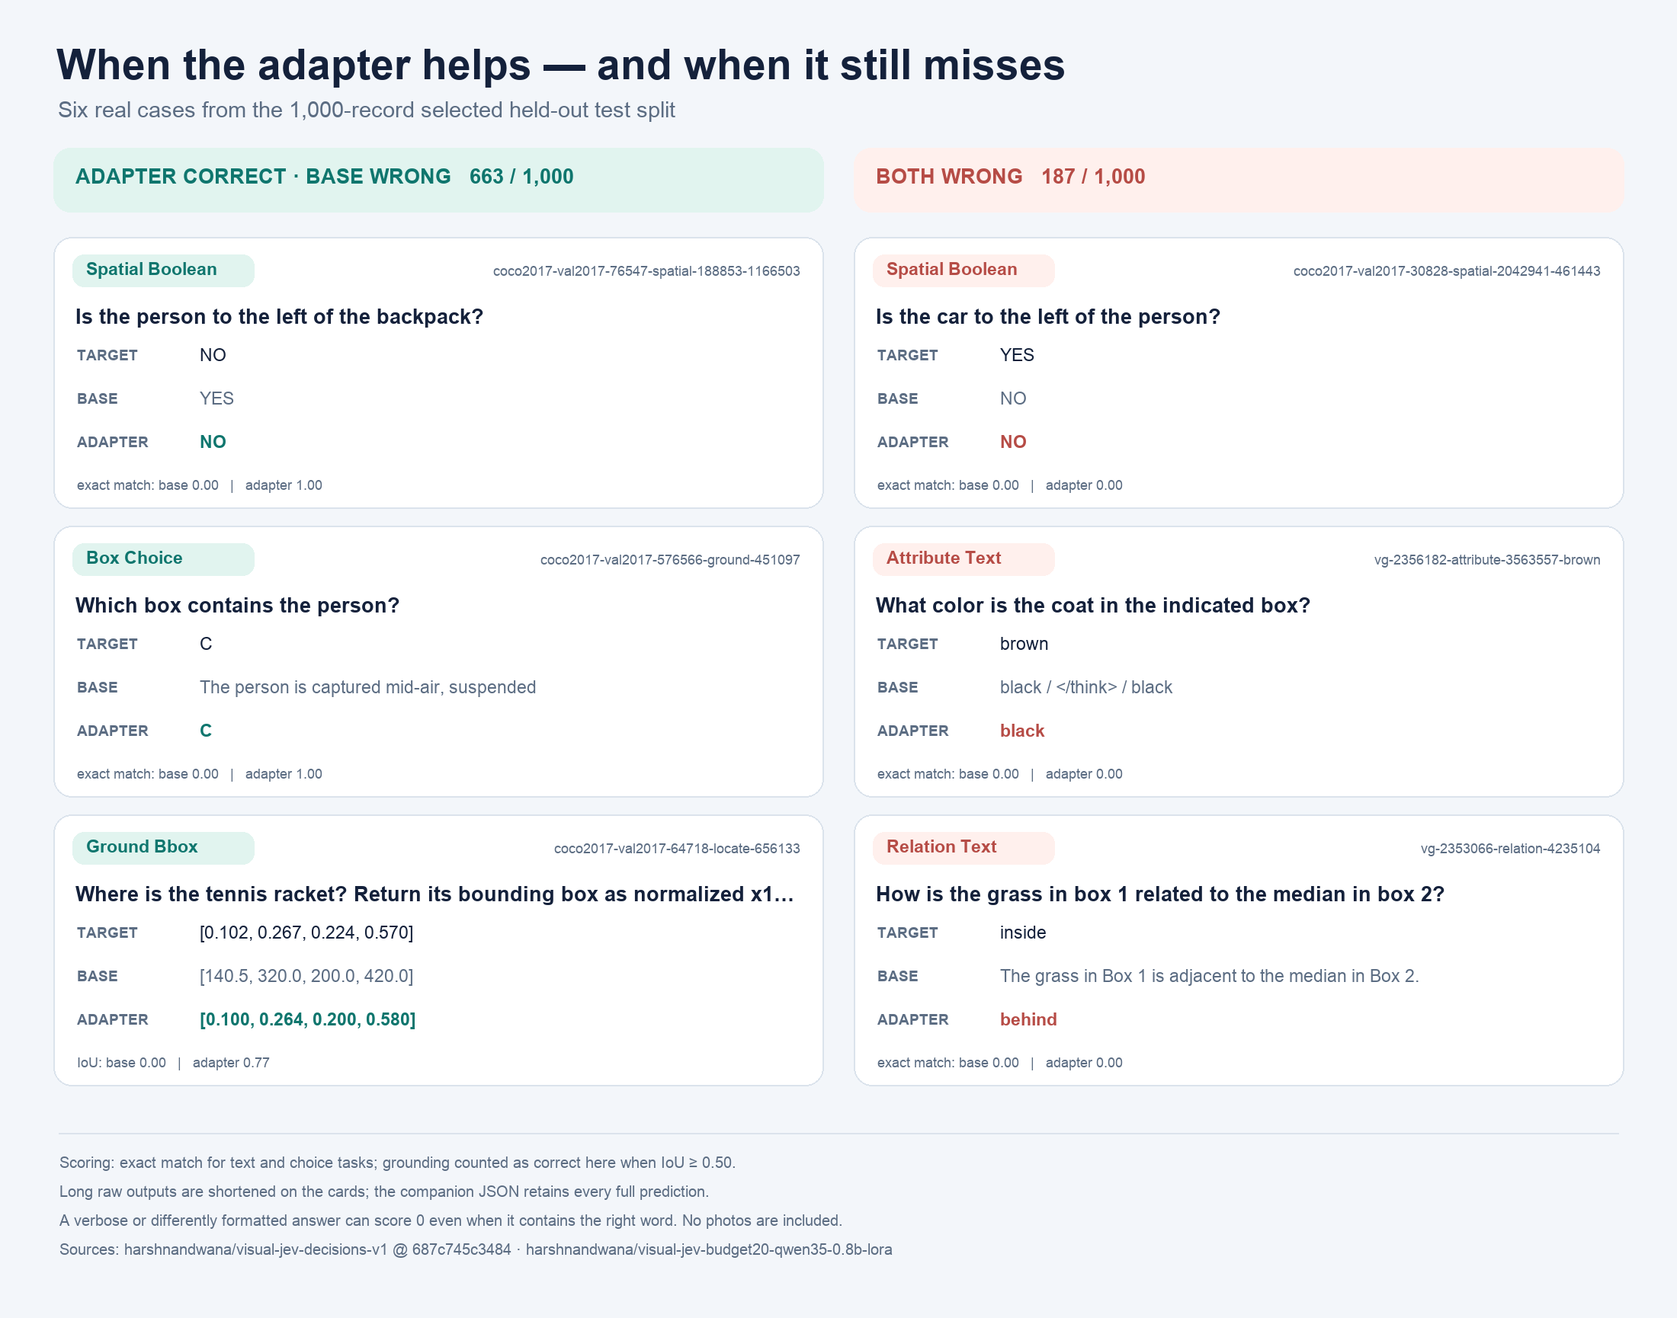
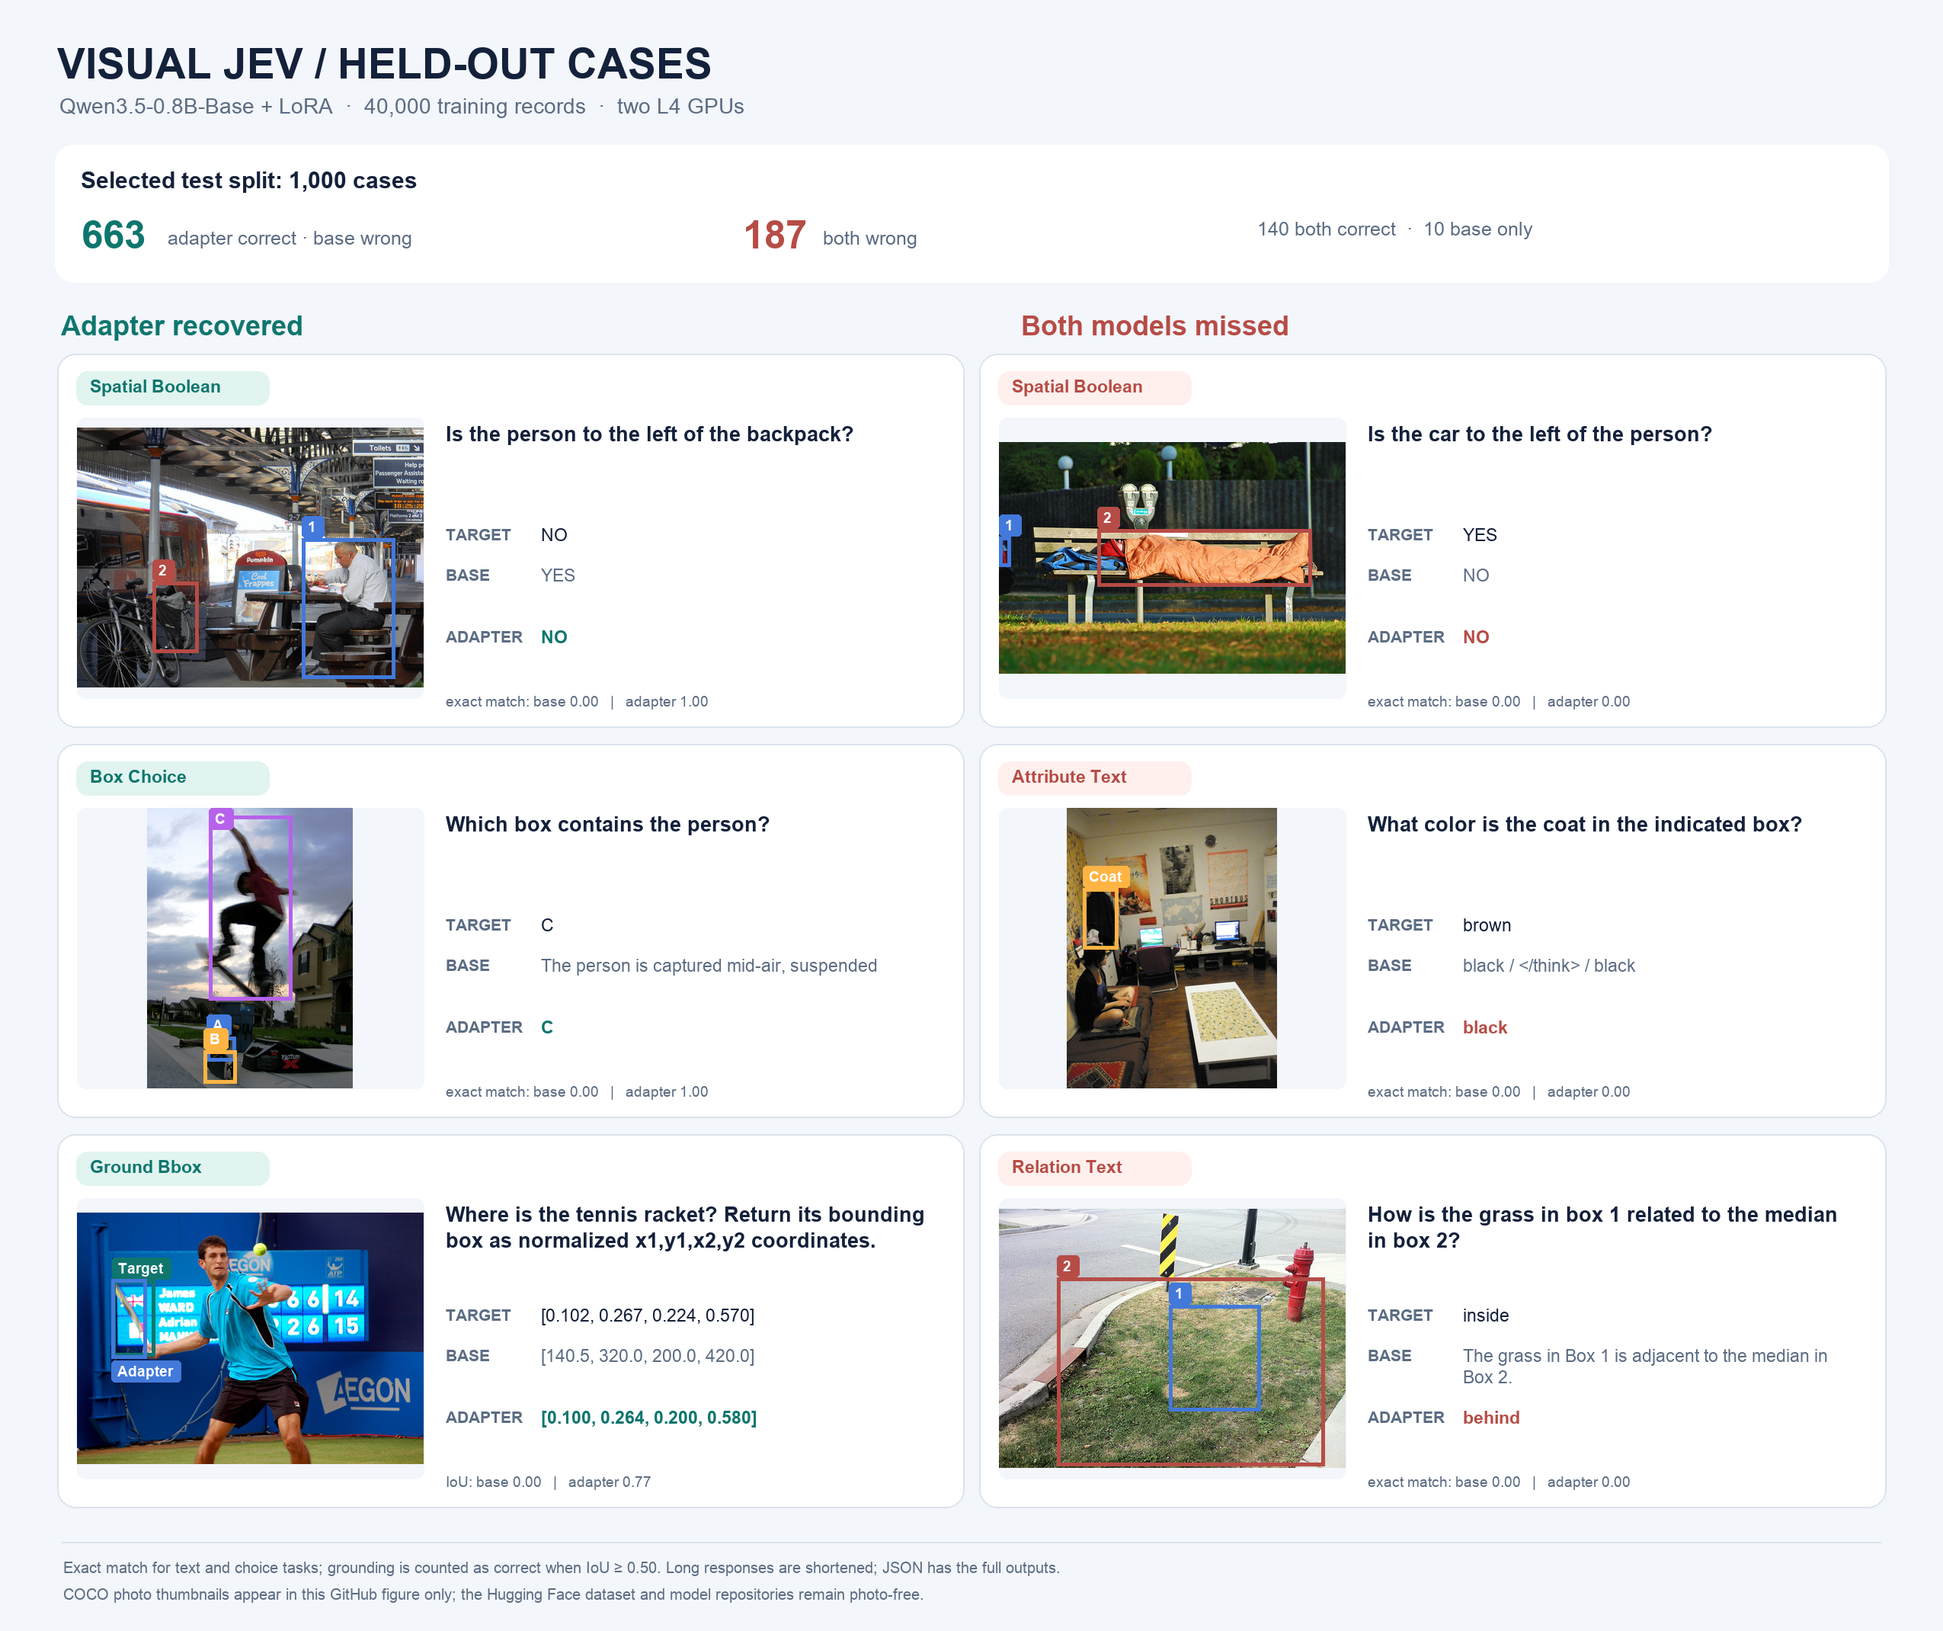
Add photo-based held-out comparison to README

diff --git a/scripts/plots/plot_test_cases.py b/scripts/plots/plot_test_cases.py
@@ -1,4 +1,4 @@
-"""Render real held-out prediction cases without distributing COCO photos.
+"""Render a GitHub-only composite of real held-out cases with COCO photos.
 
 Run from the repository root after installing requirements.txt:
     python scripts/plots/plot_test_cases.py
@@ -13,7 +13,7 @@ from collections import Counter
 import json
 from pathlib import Path
 
-from PIL import Image, ImageDraw, ImageFont
+from PIL import Image, ImageDraw, ImageFont, ImageOps
 from huggingface_hub import hf_hub_download
 
 from visual_jev.hf import DATASET_REPO, DATASET_REVISION
@@ -40,6 +40,82 @@ TEAL_PALE = "#E1F4EF"
 CORAL = "#B64C46"
 CORAL_PALE = "#FFF0ED"
 BORDER = "#DBE3EC"
+BLUE = "#4279DA"
+YELLOW = "#FFB443"
+PURPLE = "#B762EA"
+
+
+def wrap(draw: ImageDraw.ImageDraw, value: str, face, width: int,
+         max_lines: int = 2) -> list[str]:
+    words = " / ".join(part.strip() for part in str(value).splitlines() if part.strip()).split()
+    lines: list[str] = []
+    current = ""
+    for word in words:
+        trial = f"{current} {word}".strip()
+        if current and draw.textlength(trial, font=face) > width:
+            lines.append(current)
+            current = word
+        else:
+            current = trial
+    if current:
+        lines.append(current)
+    if len(lines) > max_lines:
+        lines = lines[:max_lines]
+        lines[-1] = clipped(draw, lines[-1] + "…", face, width)
+    return lines
+
+
+def photo(canvas: Image.Image, x: int, y: int, annotation: dict,
+          row: dict, width: int = 455, height: int = 368) -> None:
+    path = ROOT / annotation["image"]["path"]
+    if not path.is_file():
+        raise FileNotFoundError(f"COCO photo required for the composite: {path}")
+    with Image.open(path) as original:
+        fitted = ImageOps.contain(original.convert("RGB"), (width, height), Image.Resampling.LANCZOS)
+    px = x + (width - fitted.width) // 2
+    py = y + (height - fitted.height) // 2
+    canvas.paste(fitted, (px, py))
+    d = ImageDraw.Draw(canvas)
+    boxes: list[tuple[str, list[float], str]] = []
+    task = row["task"]
+    if task == "box_choice":
+        boxes = [(candidate["choice"], candidate["bbox_xyxy"], color)
+                 for candidate, color in zip(annotation["candidates"], (BLUE, YELLOW, PURPLE))]
+    elif task == "ground_bbox":
+        boxes.append(("Target", annotation["answer_box_xyxy"], TEAL))
+        # The base response uses pixel coordinates outside [0, 1], so it is not a valid overlay.
+        try:
+            answer = json.loads(row["adapter_prediction"])
+            if len(answer) == 4 and all(0 <= float(v) <= 1 for v in answer):
+                boxes.append(("Adapter", answer, BLUE))
+        except (ValueError, TypeError):
+            pass
+    elif task == "attribute_text":
+        boxes = [("Coat", annotation["region_box_xyxy"], YELLOW)]
+    else:
+        boxes = [(str(index), box, color)
+                 for index, (box, color) in enumerate(
+                     zip(annotation["evidence"]["boxes_xyxy"], (BLUE, CORAL)), start=1)]
+    for label, box, color in boxes:
+        x1, y1, x2, y2 = box
+        rect = (round(px + x1 * fitted.width), round(py + y1 * fitted.height),
+                round(px + x2 * fitted.width), round(py + y2 * fitted.height))
+        d.rectangle(rect, outline=color, width=5)
+        label_width = round(d.textlength(label, font=font(19, True))) + 18
+        label_y = (min(py + fitted.height - 28, rect[3] + 3)
+                   if task == "ground_bbox" and label == "Adapter"
+                   else max(py, rect[1] - 29))
+        d.rounded_rectangle((rect[0], label_y, rect[0] + label_width, label_y + 28),
+                            radius=5, fill=color)
+        d.text((rect[0] + 8, label_y + 3), label, font=font(19, True), fill="white")
+
+
+def answer_line(draw: ImageDraw.ImageDraw, x: int, y: int, label: str,
+                value: str, color: str, width: int) -> None:
+    draw.text((x, y), label, font=font(21, True), fill=MUTED)
+    for index, line in enumerate(wrap(draw, value, font(23, label == "ADAPTER"), width - 125, 2)):
+        draw.text((x + 125, y + index * 28), line,
+                  font=font(23, label == "ADAPTER"), fill=color)
 
 
 def source_file(local: Path, repo: str, filename: str, revision: str | None = None,
@@ -83,31 +159,26 @@ def clipped(draw: ImageDraw.ImageDraw, value: str, face, width: int) -> str:
     return display.rstrip() + "…"
 
 
-def card(draw: ImageDraw.ImageDraw, x: int, y: int, row: dict, question: str,
+def card(canvas: Image.Image, x: int, y: int, row: dict, annotation: dict,
          accent: str, tint: str) -> None:
-    width, height = 1010, 356
+    draw = ImageDraw.Draw(canvas)
+    width, height = 1190, 490
     draw.rounded_rectangle((x, y, x + width, y + height), radius=24,
                            fill="white", outline=BORDER, width=2)
-    draw.rounded_rectangle((x + 25, y + 23, x + 263, y + 65), radius=15, fill=tint)
+    draw.rounded_rectangle((x + 25, y + 23, x + 278, y + 67), radius=15, fill=tint)
     task = row["task"].replace("_", " ").title()
-    draw.text((x + 43, y + 29), task, font=font(23, True), fill=accent)
-    identifier = row["id"]
-    draw.text((x + 980, y + 34), identifier, font=font(18), fill=MUTED, anchor="ra")
-    draw.text((x + 29, y + 89), clipped(draw, question, font(27, True), 950),
-              font=font(27, True), fill=INK)
-    fields = (
-        ("TARGET", row["target"], INK),
-        ("BASE", row["base_prediction"], MUTED),
-        ("ADAPTER", row["adapter_prediction"], accent),
-    )
-    for index, (label, value, color) in enumerate(fields):
-        top = y + 144 + index * 57
-        draw.text((x + 31, top), label, font=font(19, True), fill=MUTED)
-        draw.text((x + 192, top - 2), clipped(draw, str(value), font(23, index == 2), 780),
-                  font=font(23, index == 2), fill=color)
+    draw.text((x + 43, y + 30), task, font=font(23, True), fill=accent)
+    draw.rounded_rectangle((x + 26, y + 84, x + 481, y + 452), radius=11, fill=BACKGROUND)
+    photo(canvas, x + 26, y + 84, annotation, row)
+    tx = x + 510
+    for index, line in enumerate(wrap(draw, annotation["question"], font(27, True), 638, 3)):
+        draw.text((tx, y + 90 + index * 34), line, font=font(27, True), fill=INK)
+    answer_line(draw, tx, y + 225, "TARGET", row["target"], INK, 645)
+    answer_line(draw, tx, y + 278, "BASE", row["base_prediction"], MUTED, 645)
+    answer_line(draw, tx, y + 359, "ADAPTER", row["adapter_prediction"], accent, 645)
     metric = "IoU" if row["task"] == "ground_bbox" else "exact match"
     score = f"{metric}: base {row['base_score']:.2f}   |   adapter {row['adapter_score']:.2f}"
-    draw.text((x + 31, y + 315), score, font=font(18), fill=MUTED)
+    draw.text((tx, y + 445), score, font=font(19), fill=MUTED)
 
 
 def main() -> None:
@@ -146,35 +217,36 @@ def main() -> None:
             target = annotation["answer_text"]
         if target != row["target"]:
             raise ValueError(f"published target differs from pinned annotation: {identifier}")
-        selected.append({"category": actual, "question": annotation["question"], **row})
+        selected.append(({"category": actual, "question": annotation["question"], **row}, annotation))
 
-    canvas = Image.new("RGB", (2200, 1730), BACKGROUND)
+    canvas = Image.new("RGB", (2550, 2140), BACKGROUND)
     draw = ImageDraw.Draw(canvas)
-    draw.text((74, 54), "When the adapter helps — and when it still misses",
-              font=font(55, True), fill=INK)
-    draw.text((76, 127), "Six real cases from the 1,000-record selected held-out test split",
-              font=font(29), fill=MUTED)
-    draw.rounded_rectangle((70, 194, 1080, 278), radius=22, fill=TEAL_PALE)
-    draw.rounded_rectangle((1120, 194, 2130, 278), radius=22, fill=CORAL_PALE)
-    draw.text((99, 216), f"ADAPTER CORRECT · BASE WRONG   {counts['adapter_only']} / 1,000",
-              font=font(27, True), fill=TEAL)
-    draw.text((1149, 216), f"BOTH WRONG   {counts['both_failed']} / 1,000",
-              font=font(27, True), fill=CORAL)
+    draw.text((75, 53), "VISUAL JEV / HELD-OUT CASES", font=font(55, True), fill=INK)
+    draw.text((78, 123), "Qwen3.5-0.8B-Base + LoRA  ·  40,000 training records  ·  two L4 GPUs",
+              font=font(28), fill=MUTED)
+    draw.rounded_rectangle((72, 190, 2478, 370), radius=24, fill="white")
+    draw.text((106, 219), "Selected test split: 1,000 cases", font=font(30, True), fill=INK)
+    draw.text((107, 279), f"{counts['adapter_only']}", font=font(51, True), fill=TEAL)
+    draw.text((220, 298), "adapter correct · base wrong", font=font(25), fill=MUTED)
+    draw.text((975, 279), f"{counts['both_failed']}", font=font(51, True), fill=CORAL)
+    draw.text((1080, 298), "both wrong", font=font(25), fill=MUTED)
+    draw.text((1650, 286), f"{counts['both_correct']} both correct  ·  {counts['base_only']} base only",
+              font=font(25), fill=MUTED)
+    draw.text((80, 407), "Adapter recovered", font=font(36, True), fill=TEAL)
+    draw.text((1340, 407), "Both models missed", font=font(36, True), fill=CORAL)
     for index in range(3):
-        top = 311 + index * 379
-        left = selected[index]
-        right = selected[index + 3]
-        card(draw, 70, top, left, left["question"], TEAL, TEAL_PALE)
-        card(draw, 1120, top, right, right["question"], CORAL, CORAL_PALE)
-    draw.line((77, 1487, 2123, 1487), fill=BORDER, width=2)
+        top = 464 + index * 512
+        left_row, left_annotation = selected[index]
+        right_row, right_annotation = selected[index + 3]
+        card(canvas, 75, top, left_row, left_annotation, TEAL, TEAL_PALE)
+        card(canvas, 1285, top, right_row, right_annotation, CORAL, CORAL_PALE)
+    draw.line((81, 2023, 2468, 2023), fill=BORDER, width=2)
     notes = (
-        "Scoring: exact match for text and choice tasks; grounding counted as correct here when IoU ≥ 0.50.",
-        "Long raw outputs are shortened on the cards; the companion JSON retains every full prediction.",
-        "A verbose or differently formatted answer can score 0 even when it contains the right word. No photos are included.",
-        f"Sources: {DATASET_REPO} @ {DATASET_REVISION[:12]} · {MODEL_REPO}",
+        "Exact match for text and choice tasks; grounding is counted as correct when IoU ≥ 0.50. Long responses are shortened; JSON has the full outputs.",
+        "COCO photo thumbnails appear in this GitHub figure only; the Hugging Face dataset and model repositories remain photo-free.",
     )
     for index, note in enumerate(notes):
-        draw.text((78, 1514 + index * 38), note, font=font(20), fill=MUTED)
+        draw.text((83, 2045 + index * 35), note, font=font(20), fill=MUTED)
     OUTPUT.parent.mkdir(parents=True, exist_ok=True)
     canvas.save(OUTPUT, optimize=True)
     EXAMPLES.write_text(json.dumps({
@@ -184,7 +256,8 @@ def main() -> None:
         "test_records": len(predictions),
         "classification": "IoU >= 0.5 for ground_bbox; score == 1 for other tasks",
         "counts": dict(counts),
-        "examples": selected,
+        "examples": [dict(row, image_source=annotation["image"]["url"])
+                     for row, annotation in selected],
     }, indent=2, ensure_ascii=False) + "\n", encoding="utf-8")
     print(f"Wrote {OUTPUT} and {EXAMPLES}")
 

diff --git a/README.md b/README.md
@@ -1,6 +1,6 @@
 # Visual Jev
 
-Tools for building an image-grounded decision dataset and training Qwen3.5 LoRA adapters. The [published annotation dataset](https://huggingface.co/datasets/harshnandwana/visual-jev-decisions-v1) has 694,255 train, 24,137 validation, and 6,254 test records across five tasks. The dataset and this repository contain **no photo files**. Image references point to COCO 2017; users fetch the photos from the upstream source when needed.
+Tools for building an image-grounded decision dataset and training Qwen3.5 LoRA adapters. The [published annotation dataset](https://huggingface.co/datasets/harshnandwana/visual-jev-decisions-v1) has 694,255 train, 24,137 validation, and 6,254 test records across five tasks. The dataset and model repositories contain **no photo files**. This GitHub README includes one composite figure with COCO photo thumbnails. Image references point to COCO 2017; users fetch the source photos when needed.
 
 ## Repository layout
 
@@ -11,7 +11,7 @@ scripts/modal/        Modal staging, pilot and budget training, workers, and mod
 scripts/plots/        Local benchmark and pilot plots
 tests/                Synthetic fixture and offline tests
 docs/                 Data, training, budget, and contribution guides
-results/              Measured, photo-free training check outputs
+results/              Measured outputs and a photo-based test comparison figure
 data/                 Local datasets and photos; only small pilot files and the manifest are tracked
 ```
 
@@ -38,7 +38,7 @@ The annotation rows use image paths such as `data/coco/train2017/000000000009.jp
 .venv/bin/visual-jev-data validate data/hf_release/train.jsonl --check-images
 ```
 
-The image download is optional for inspecting annotations, but required for local visual training. It downloads from the official COCO image host. Photos stay in the ignored `data/coco/` directory; do not add them to Hugging Face or GitHub. The Modal training scripts stage photos in a private Modal Volume instead.
+The image download is optional for inspecting annotations, but required for local visual training. It downloads from the official COCO image host. Source photos stay in the ignored `data/coco/` directory; do not add those files to Hugging Face or GitHub. The Modal training scripts stage photos in a private Modal Volume instead.
 
 ## Run the code
 
@@ -55,7 +55,9 @@ The fixture is synthetic. To rebuild the full release from raw COCO and Visual G
 
 The [budget-limited LoRA model](https://huggingface.co/harshnandwana/visual-jev-budget20-qwen35-0.8b-lora) completed one epoch on **40,000 sampled training records** using two L4 GPUs. It was evaluated on all 1,000 records of the selected validation subset and all 1,000 records of the selected test subset. The [exact metrics](results/budget40k_metrics.json), [benchmark chart](results/budget40k_benchmark.png), and [training details](docs/BUDGET_TRAINING.md) are public. The earlier [256-example check](results/budget_smoke_metrics.json) remains for pipeline reproducibility. The complete 694,255-row training split has **not** been trained or benchmarked.
 
-The [test-case comparison](results/test_case_comparison.png) shows three real cases where the base model failed and the adapter passed, and three where both failed. Its [companion JSON](results/test_case_examples.json) retains the full predictions; `scripts/plots/plot_test_cases.py` regenerates the photo-free figure.
+The figure below shows three real cases where the base model failed and the adapter passed, and three where both failed. It includes annotated COCO photo thumbnails in this GitHub repository only. The [companion JSON](results/test_case_examples.json) retains the full predictions; `scripts/plots/plot_test_cases.py` regenerates the figure from local COCO photos and the published test records.
+
+![Held-out comparison with annotated COCO photos](results/test_case_comparison.png)
 
 ![Selected test benchmark for the 40,000-record model](results/budget40k_benchmark.png)
 

diff --git a/docs/BUDGET_TRAINING.md b/docs/BUDGET_TRAINING.md
@@ -29,7 +29,7 @@ The `train` entrypoint calls the deployed app. Its returned function-call ID ide
 
 ## Completed sampled run
 
-One epoch on 40,000 sampled training records completed in 625 optimizer steps on two L4 GPUs. Baseline and adapter validation covered all 1,000 selected validation records; greedy generation for both covered all 1,000 selected test records, 200 per task. The adapter and model card are on [Hugging Face](https://huggingface.co/harshnandwana/visual-jev-budget20-qwen35-0.8b-lora). The [metrics JSON](../results/budget40k_metrics.json) and [chart](../results/budget40k_benchmark.png) are also in this repository. No photo bytes are in either public repository.
+One epoch on 40,000 sampled training records completed in 625 optimizer steps on two L4 GPUs. Baseline and adapter validation covered all 1,000 selected validation records; greedy generation for both covered all 1,000 selected test records, 200 per task. The adapter and model card are on [Hugging Face](https://huggingface.co/harshnandwana/visual-jev-budget20-qwen35-0.8b-lora). The [metrics JSON](../results/budget40k_metrics.json) and [chart](../results/budget40k_benchmark.png) are also in this repository. The Hugging Face dataset and model repositories contain no photo bytes; this GitHub repository includes a composite example figure with COCO photo thumbnails.
 
 | Task | Base test score | Adapter test score | Metric |
 | --- | ---: | ---: | --- |
@@ -41,7 +41,7 @@ One epoch on 40,000 sampled training records completed in 625 optimizer steps on
 
 These scores describe the selected held-out test subset. They do not establish performance on the full published test split or on new domains.
 
-For case-level inspection, see the [comparison graphic](../results/test_case_comparison.png) and [full example data](../results/test_case_examples.json). The figure uses the published prediction log and pinned test annotations, without distributing photos. Its grounding success threshold is IoU ≥ 0.50; the other tasks use the published exact-match score. This case classification is separate from the mean scores above.
+For case-level inspection, see the [comparison graphic](../results/test_case_comparison.png) and [full example data](../results/test_case_examples.json). The figure uses the published prediction log, pinned test annotations, and locally fetched COCO photos. Its grounding success threshold is IoU ≥ 0.50; the other tasks use the published exact-match score. This case classification is separate from the mean scores above. The photos appear only in the GitHub composite, not on Hugging Face.
 
 ## Verified training check
 
